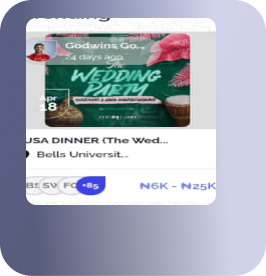
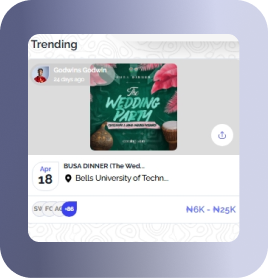
update

diff --git a/src/components/landing_component/home/event/HeroSection.tsx b/src/components/landing_component/home/event/HeroSection.tsx
@@ -21,7 +21,7 @@ export default function HeroSection() {
                 </Flex>
                 <Flex maxW={"751px"} h={"fit-content"} mt={["0px", "0px", "6"]} position={"relative"} >
                     <Image src='/images/plan/eventpaper.png' alt='hero2' objectFit={"contain"} w={"full"} />
-                    <Image src='/images/plan/eventcard.jpeg' alt='hero2' pos={"absolute"} left={"0px"} bottom={["0px", "0px", "0px"]} height={"50%"} objectFit={"contain"} />
+                    <Image src='/images/plan/eventcard.png' alt='hero2' pos={"absolute"} left={"0px"} bottom={["0px", "0px", "0px"]} height={"50%"} objectFit={"contain"} />
                 </Flex>
             </Flex>
         </Flex>

diff --git a/src/components/landing_component/newhome/getThingDone.tsx b/src/components/landing_component/newhome/getThingDone.tsx
@@ -27,7 +27,7 @@ export default function GetThingDone() {
         {
             "name": "Aso Ebi & product Hub→ ",
             "detail": "Browse and buy from our Kiosk",
-            link: "/home/event"
+            link: "/home/kiosk"
         },
         {
             "name": "Rental space → ",
